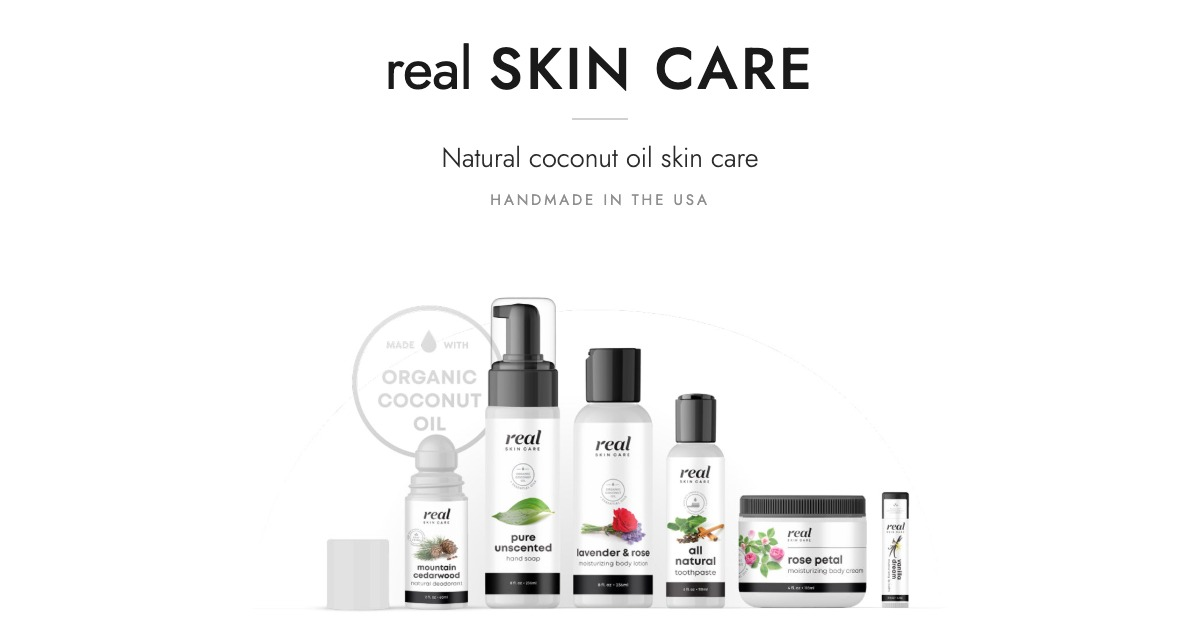
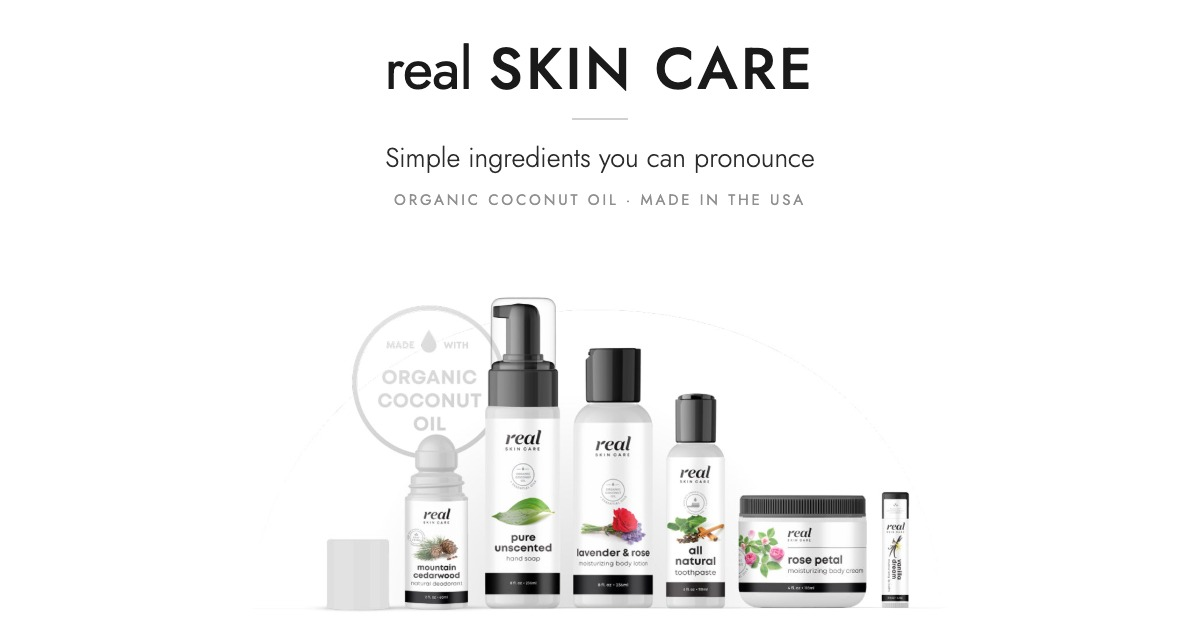
feat(share-card): lead with the ingredient-count position
Operator-chosen swap. The card now reads "Simple ingredients you can
pronounce" over "ORGANIC COCONUT OIL · MADE IN THE USA" instead of "Natural
coconut oil skin care" over "HANDMADE IN THE USA" — the ingredient contrast is
the brand's central position and the reason people switch, so it is the line
worth putting on every shared link.

All three lines were gated before rendering and clear both the health gate and
the product-category gate. Uploaded under a versioned filename
(real-skin-care-share-card-v2-1200x630.jpg), because Shopify creates a suffixed
duplicate rather than overwriting a same-named file; the theme's share_image
setting was repointed with a one-key, byte-safe edit and read back identical.

Verified live: og:image on / and /pages/giveaway-offer is the v2 card.

Changed region(s): [[0.3083, 0.2413, 0.6783, 0.2714], [0.3392, 0.3016, 0.6783, 0.3317]]

diff --git a/assets/share-card/share-card.html b/assets/share-card/share-card.html
@@ -25,8 +25,8 @@
   <div class="stage">
     <div class="wordmark">real <b>SKIN CARE</b></div>
     <div class="rule"></div>
-    <div class="tagline">Natural coconut oil skin care</div>
-    <div class="sub">Handmade in the USA</div>
+    <div class="tagline">Simple ingredients you can pronounce</div>
+    <div class="sub">Organic coconut oil &middot; Made in the USA</div>
   </div>
   <img class="lineup" src="LINEUP_SRC" alt="">
 </body></html>
